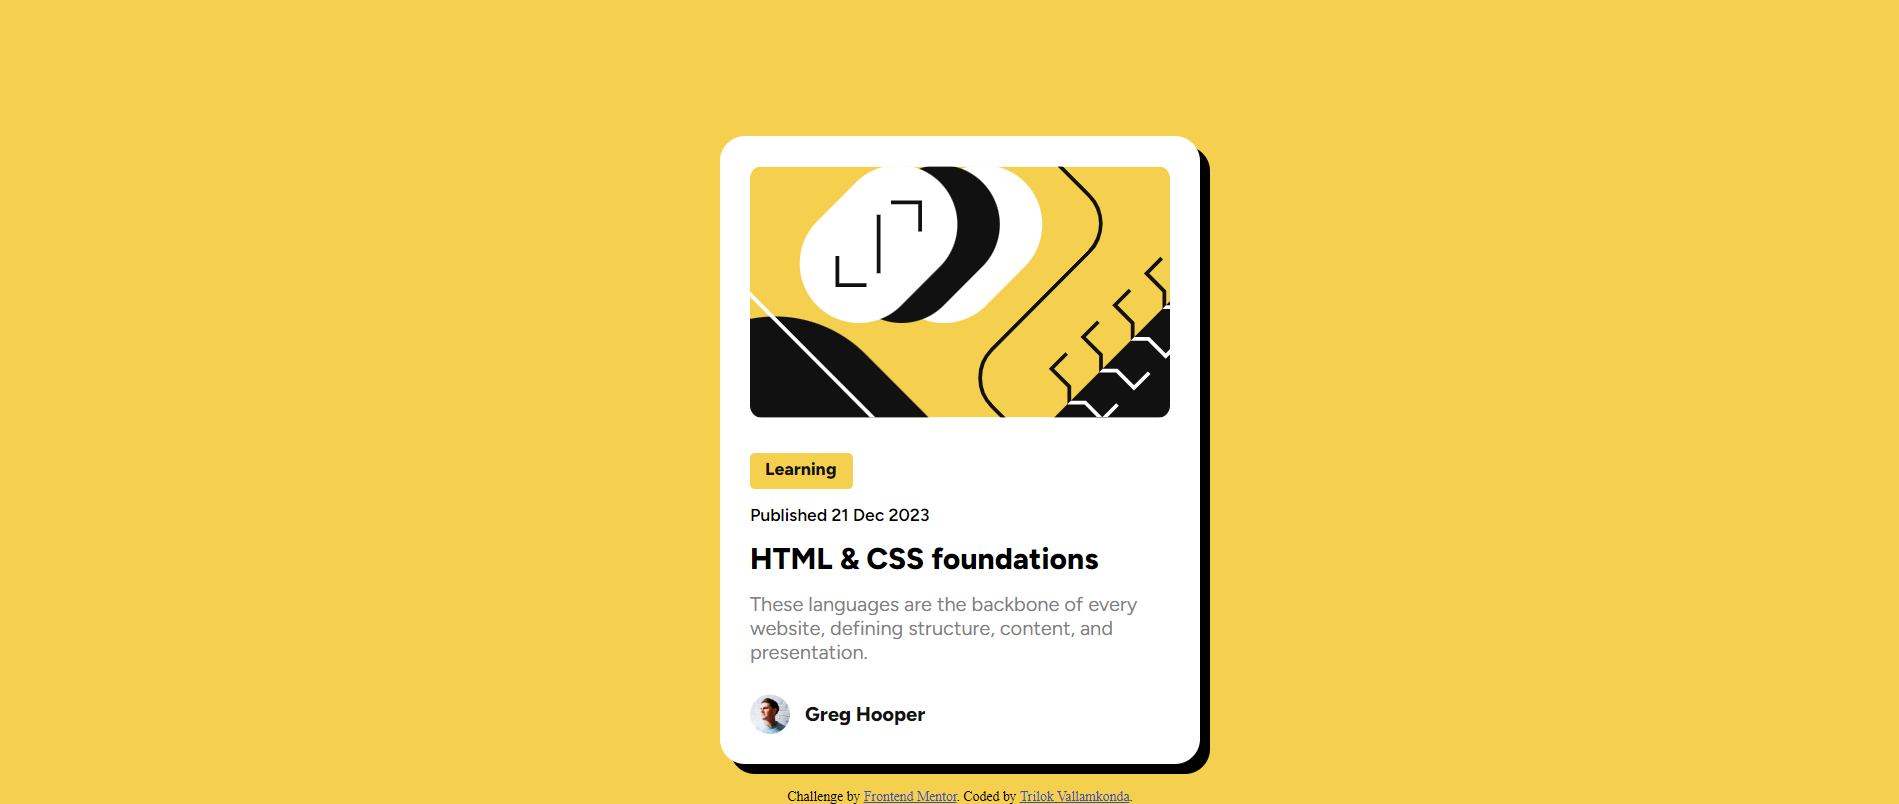
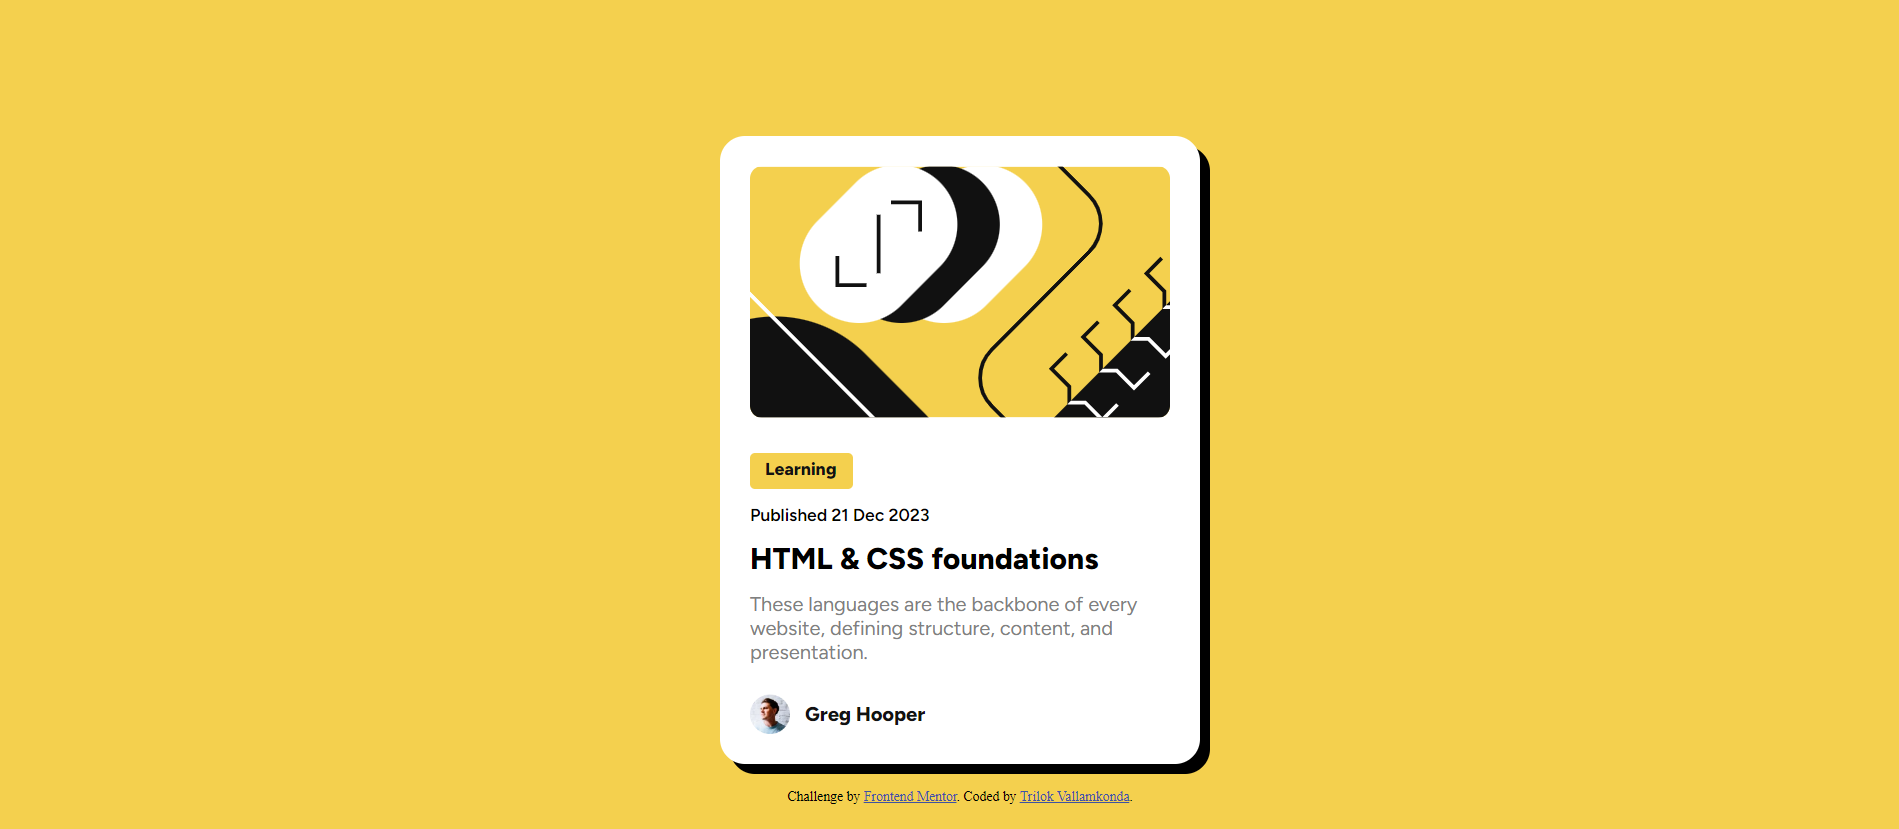
update padding attribution div

Changed region(s): [[0.3728, 0.2799, 0.6524, 1.0], [0.3728, 0.1555, 0.6214, 0.2488]]

diff --git a/index.css b/index.css
@@ -112,7 +112,7 @@ h1 {
     font-family: "figTreeExtraBold";
 }
 
-.attribution { font-size: 11px; text-align: center; margin-top: 20px; }
+.attribution { font-size: 11px; text-align: center; margin: 20px 0; }
 .attribution a { color: hsl(228, 45%, 44%); }
 
 /* Mobile View styles */
